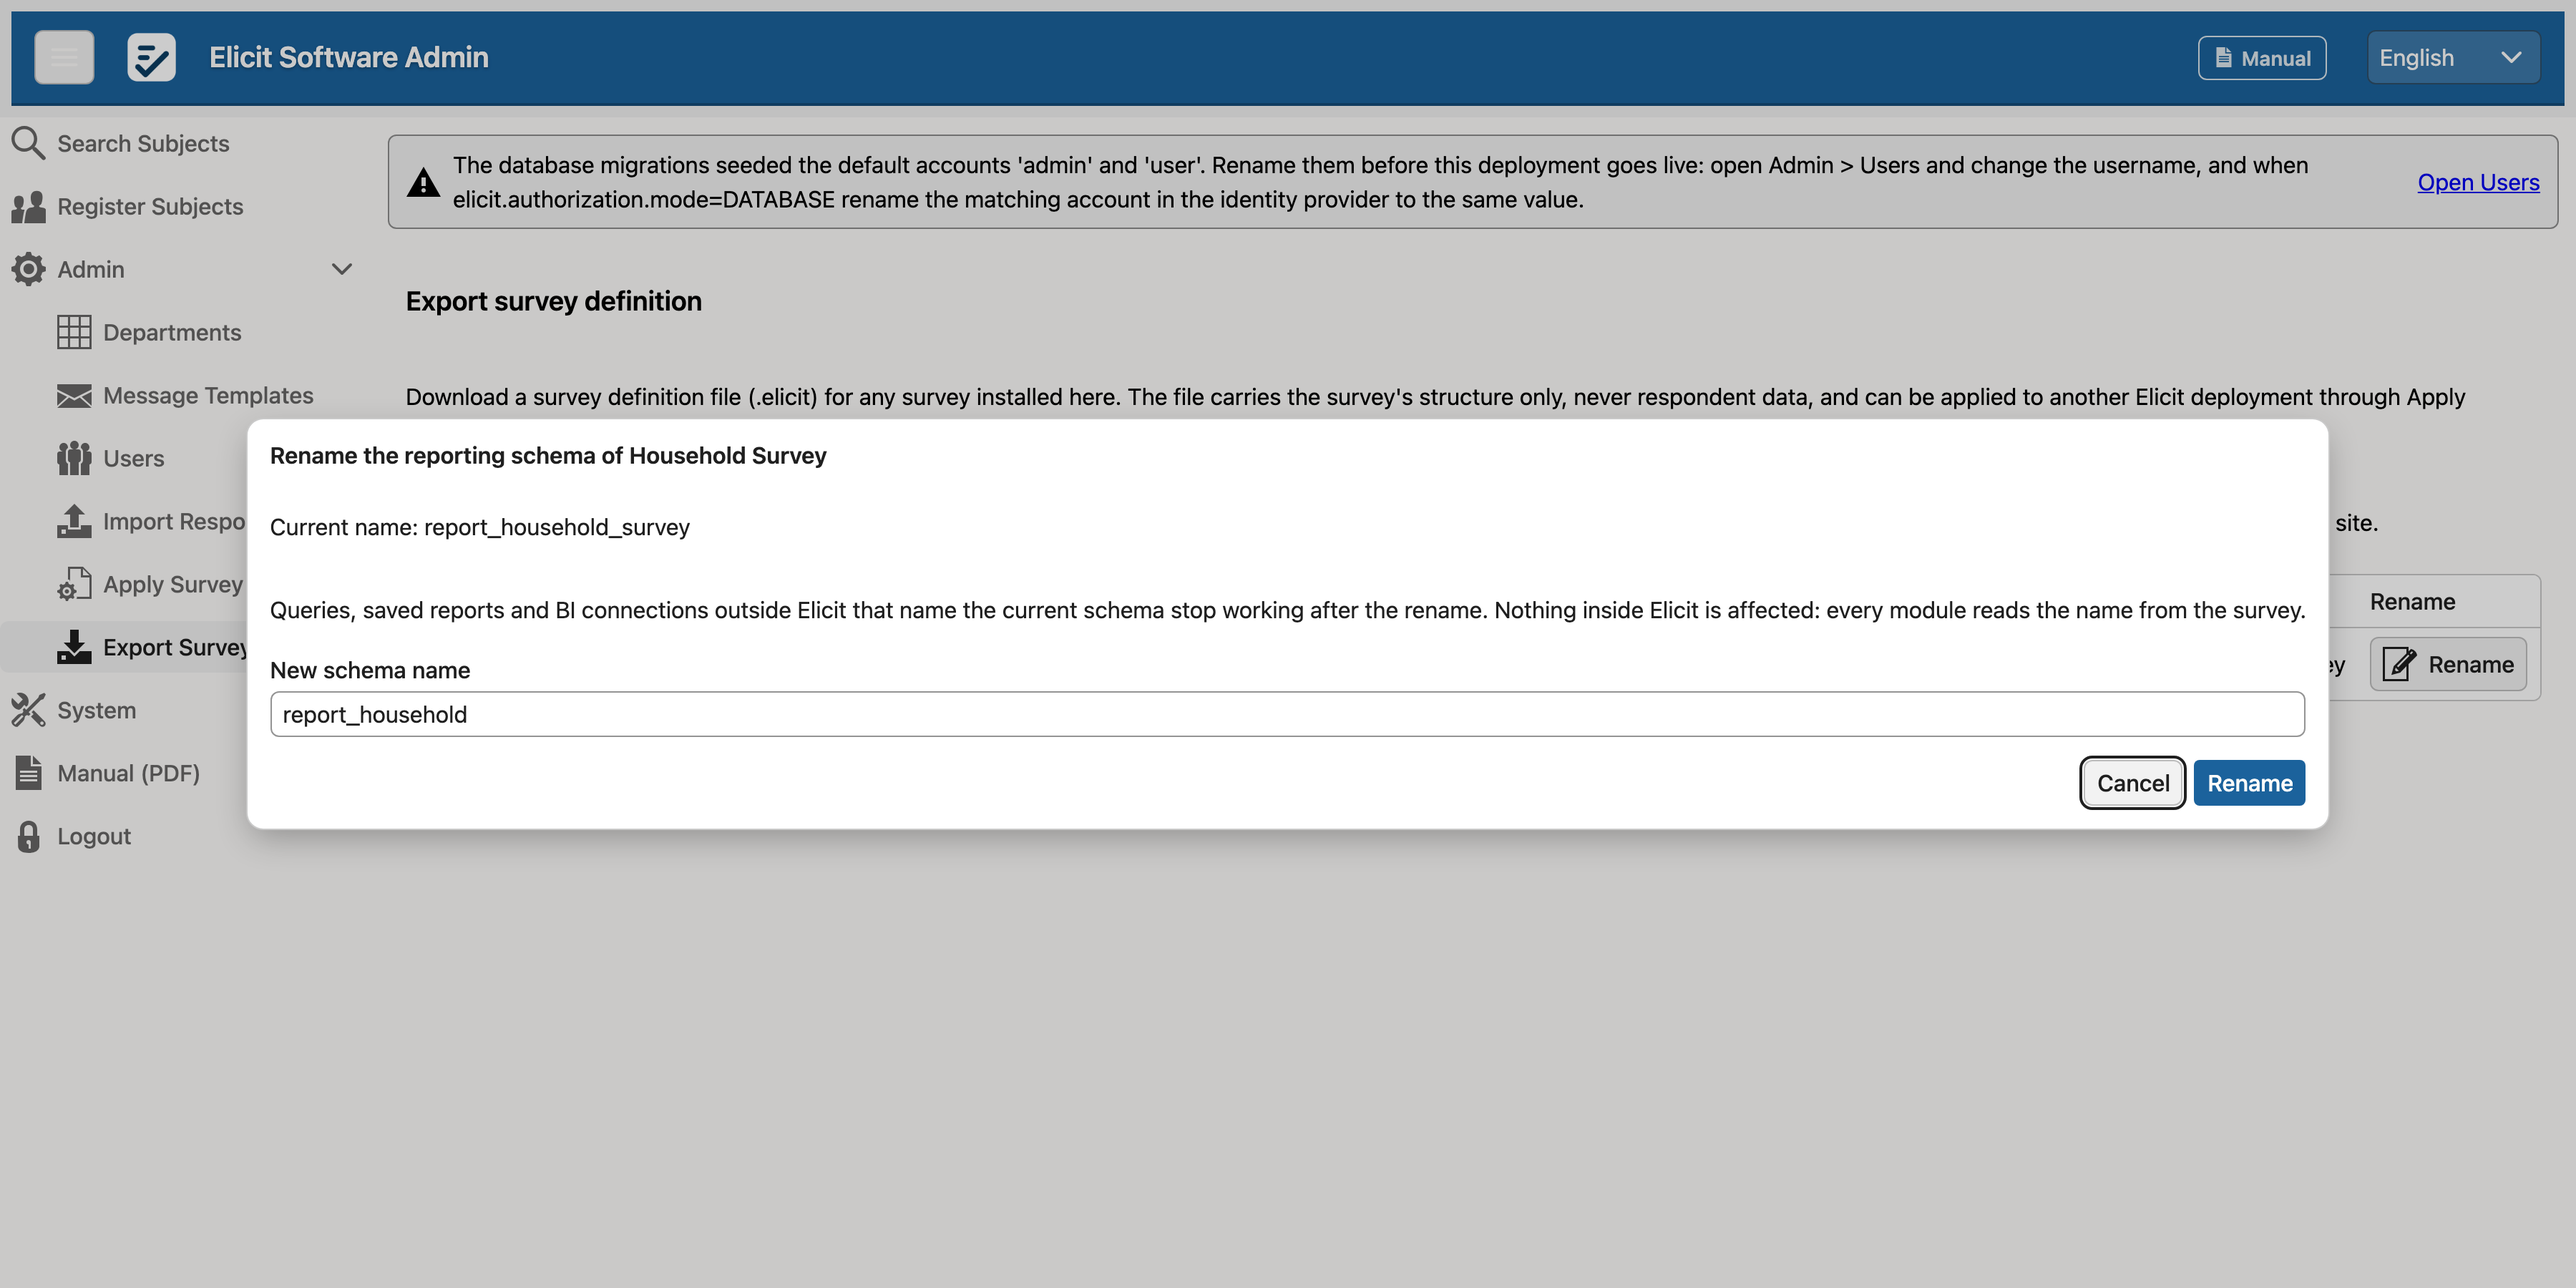
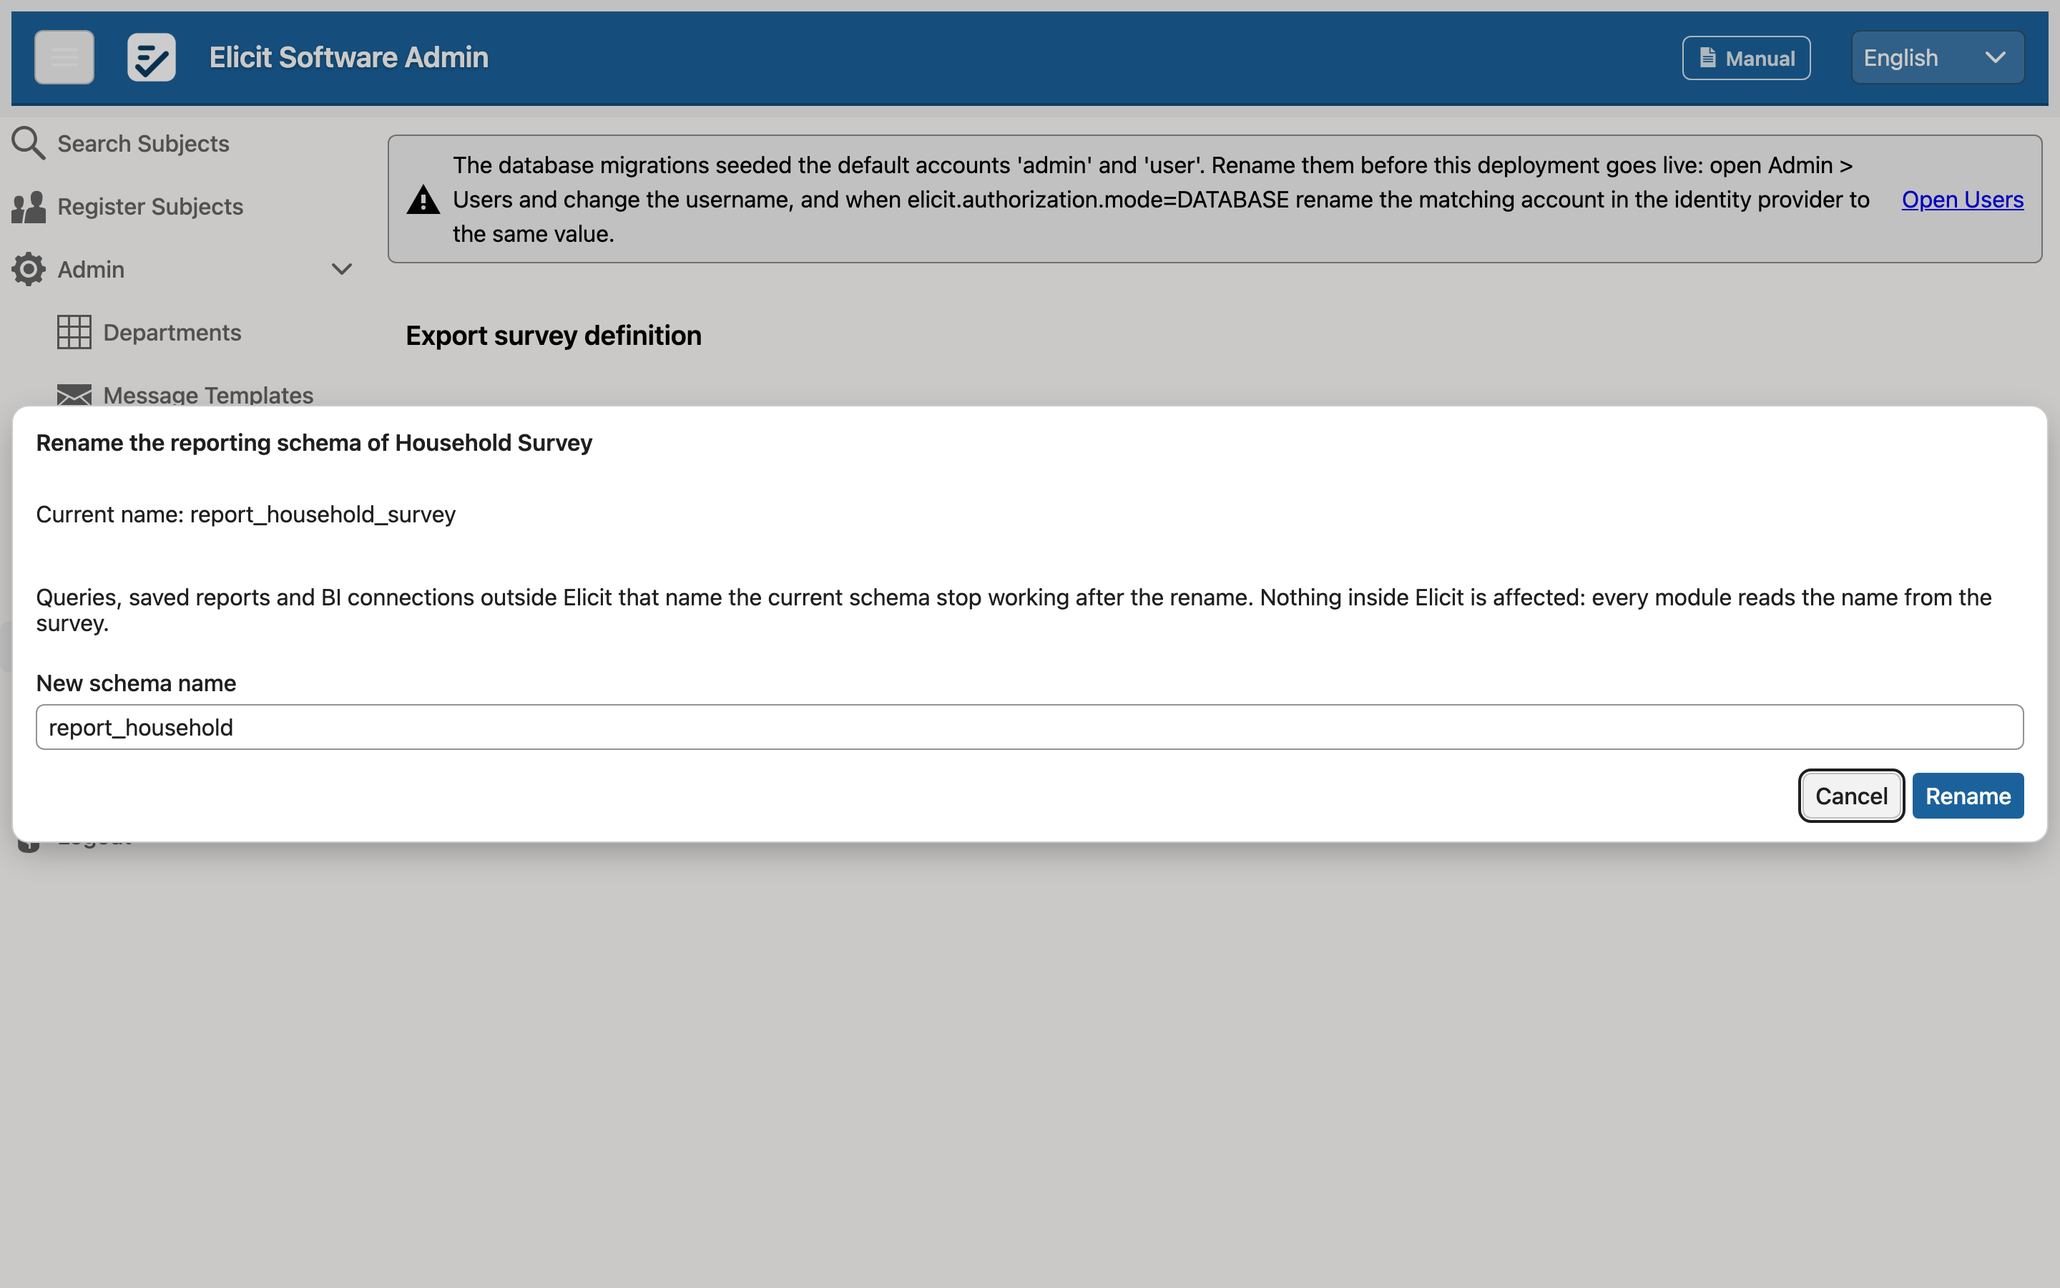
Fit the Export Survey Definition row into a 1440 px window
The seven-column grid scrolled sideways at laptop width and the Rename
action the manual describes was off-screen. The survey key column has a
fixed width (10em) and its cells wrap, so the UUID takes three short
lines and Download, Reporting schema and Rename stay in view (UC-030
BR-119). The manual's figures 20 and 30 are recaptured at the walk's
1440 px, and the capture script loses its 1800 px workaround.

diff --git a/src/main/resources/META-INF/resources/components/survey-export-view.css b/src/main/resources/META-INF/resources/components/survey-export-view.css
@@ -1,0 +1,21 @@
+/*-
+ * ***LICENSE_START***
+ * Elicit Survey
+ * %%
+ * Copyright (C) 2025 - 2026 The Regents of the University of Michigan - Rogel Cancer Center
+ * %%
+ * PolyForm Noncommercial License 1.0.0
+ * <https://polyformproject.org/licenses/noncommercial/1.0.0>
+ * ***LICENSE_END***
+ */
+
+/* Export Survey Definition (UC-013, UC-030): seven columns, one of them a 36-character survey
+   key. At the width of a laptop window (1440 px) the key on one line pushed the Download,
+   Reporting schema and Rename columns off the right edge behind a sideways scroll (UC-030
+   BR-119). The key column has a fixed width in the view and its cells wrap here; the grid grows
+   the row to fit. The part name is SurveyDefinitionExportView.KEY_CELL_PART. */
+#survey-export-grid::part(survey-key) {
+    white-space: normal;
+    word-break: break-all;
+    line-height: 1.3;
+}

diff --git a/src/main/resources/META-INF/resources/styles.css b/src/main/resources/META-INF/resources/styles.css
@@ -45,6 +45,7 @@
 @import 'components/edit-message-templates.css';
 @import 'components/pagination-controls.css';
 @import 'components/search-view.css';
+@import 'components/survey-export-view.css';
 @import 'components/system-views.css';
 @import 'components/unauthorized-view.css';
 @import 'components/view-text.css';

diff --git a/src/main/java/com/elicitsoftware/admin/flow/SurveyDefinitionExportView.java b/src/main/java/com/elicitsoftware/admin/flow/SurveyDefinitionExportView.java
@@ -65,6 +65,15 @@ public class SurveyDefinitionExportView extends VerticalLayout {
     /** Element id of the notice shown instead of the grid when no survey is installed. */
     static final String EMPTY_NOTICE_ID = "survey-export-empty";
 
+    /**
+     * The survey key column's width: the 36-character UUID wraps to two lines of 18 in it
+     * (UC-030 BR-119). At 13em the row was still some 35 px wider than a 1440 px window.
+     */
+    static final String KEY_COLUMN_WIDTH = "10em";
+
+    /** The part name of the key column's cells, styled to wrap by {@code components/survey-export-view.css}. */
+    static final String KEY_CELL_PART = "survey-key";
+
     /** CSS class carried by every row's download anchor, for tests and page objects. */
     static final String DOWNLOAD_CLASS = "survey-export-download";
 
@@ -129,8 +138,11 @@ public class SurveyDefinitionExportView extends VerticalLayout {
         grid.setAllRowsVisible(true);
         grid.addColumn(survey -> survey.name).setHeader(getTranslation("surveyDefinitionExportView.grid.name")).setAutoWidth(true).setFlexGrow(1);
         grid.addColumn(survey -> survey.title).setHeader(getTranslation("surveyDefinitionExportView.grid.title")).setAutoWidth(true).setFlexGrow(2);
+        // UC-030 BR-119: the 36-character key wraps inside a fixed width (components/survey-export-view.css
+        // styles the part) so the Download, Reporting schema and Rename columns fit a 1440 px window
+        // without a sideways scroll.
         grid.addColumn(survey -> String.valueOf(survey.surveyKey)).setHeader(getTranslation("surveyDefinitionExportView.grid.surveyKey"))
-                .setAutoWidth(true).setFlexGrow(0);
+                .setWidth(KEY_COLUMN_WIDTH).setFlexGrow(0).setPartNameGenerator(survey -> KEY_CELL_PART);
         grid.addColumn(this::installedRevisionOf).setHeader(getTranslation("surveyDefinitionExportView.grid.installedRevision"))
                 .setAutoWidth(true).setFlexGrow(0);
         grid.addComponentColumn(this::downloadAnchor).setHeader(getTranslation("surveyDefinitionExportView.grid.download"))

diff --git a/src/test/java/com/elicitsoftware/admin/flow/SurveyDefinitionExportViewTest.java b/src/test/java/com/elicitsoftware/admin/flow/SurveyDefinitionExportViewTest.java
@@ -148,6 +148,24 @@ class SurveyDefinitionExportViewTest extends QuarkusBrowserlessTest {
         assertFalse(test(grid).getCellComponent(unbuiltRow, 6).isVisible(), "A1: nothing to rename until Survey's first build");
     }
 
+    /** UC-030 BR-119: the key column is fixed-width and its cells carry the part the stylesheet wraps. */
+    @Test
+    @TestTransaction
+    @TestSecurity(user = "export.admin", roles = {"elicit_admin"})
+    void surveyKeyColumnIsFixedWidthAndWraps() {
+        Survey survey = newSurveyWithStep("ExportViewKeyWidth");
+
+        SurveyDefinitionExportView view = attachView();
+        Grid<?> grid = grid(view);
+
+        @SuppressWarnings("unchecked")
+        Grid.Column<Survey> key = (Grid.Column<Survey>) grid.getColumns().get(2);
+        assertEquals(SurveyDefinitionExportView.KEY_COLUMN_WIDTH, key.getWidth());
+        assertFalse(key.isAutoWidth(), "an auto-width key column is as wide as the UUID and pushes Rename off a laptop window");
+        assertEquals(0, key.getFlexGrow());
+        assertEquals(SurveyDefinitionExportView.KEY_CELL_PART, key.getPartNameGenerator().apply(survey));
+    }
+
     /** UC-013 step 4: the download is a self-contained definition file named after the survey. */
     @Test
     @TestTransaction

diff --git a/docs/use_cases/UC-030-rename-a-surveys-reporting-schema.md b/docs/use_cases/UC-030-rename-a-surveys-reporting-schema.md
@@ -88,6 +88,10 @@ The name must match `^[a-z_][a-z0-9_]{0,62}$` and may not be `survey`, `surveyre
 
 The console never touches a reporting schema itself: it connects as `surveyadmin_user`, which owns none of them, and the schema's name lives on the survey row that Survey's build maintains. The console shows the name and relays the request; Survey validates, renames and records in one transaction.
 
+### BR-119: The list fits a laptop window
+
+The Export Survey Definition list is seven columns wide, and the survey key alone is 36 characters. At a 1440 px window the Reporting schema column and the Rename action, the two this use case adds at the end of the row, must be in view without a sideways scroll: the key column has a fixed width and its value wraps, rather than the row growing past the window.
+
 ### BR-118: The warning is about the outside
 
 Inside Elicit a rename takes effect everywhere at once, because nothing hard-codes a survey schema's name. What breaks is a query, a saved report or a BI connection outside Elicit that names the old schema. The dialog says so before the administrator confirms, and the name is shown in the list afterwards so it can be passed on.
